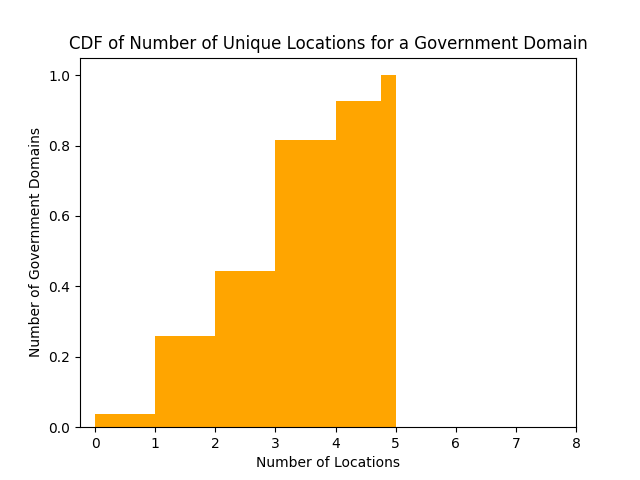
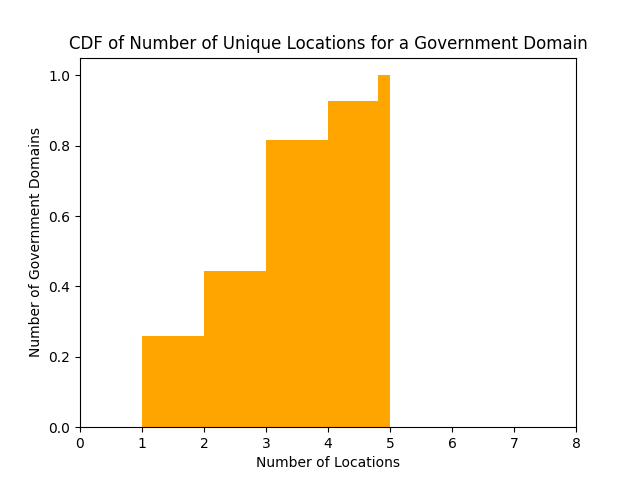
Lots of graphs

diff --git a/scripts/analysis.py b/scripts/analysis.py
@@ -26,6 +26,7 @@ RUN_DOMAIN_TYPES = True
 
 third_party_patterns = [
       re.compile("google", re.IGNORECASE),
+      re.compile("microsoft", re.IGNORECASE),
       re.compile("outlook", re.IGNORECASE),
       re.compile("mimecast", re.IGNORECASE),
       re.compile("barracuda", re.IGNORECASE),
@@ -35,13 +36,28 @@ third_party_patterns = [
       re.compile("zoho", re.IGNORECASE),
       re.compile("spamexperts", re.IGNORECASE),
       re.compile("everycloudtech", re.IGNORECASE),
+      re.compile("everycloudtech", re.IGNORECASE),
+      re.compile("frontbridge", re.IGNORECASE),
       ]
 
-def is_domain_third_party(domain_name):
+government_patterns = [
+      re.compile(r"\.gov\.?$")
+      ]
+
+def classify_third_party(domain_name, geo_host_name):
+    geo_host_name = "" if geo_host_name == None else str(geo_host_name)
+    domain_name = "" if geo_host_name == None else str(domain_name)
     for pattern in third_party_patterns:
         if re.search(pattern, domain_name) != None:
-           return True
-    return False
+            return "Third Party"
+        if re.search(pattern, geo_host_name) != None:
+            return "Third Party"
+    for pattern in government_patterns:
+        if re.search(pattern, geo_host_name) != None:
+            return "First Party"
+        if re.search(pattern, domain_name) != None:
+            return "First Party"
+    return "Unknown"
 
 def run_analysis(gov_df, mx_df, a_df, geo_df, output_dir, force_plot):
     print("Summary Info:") 
@@ -99,13 +115,60 @@ def report_statistics(gov_df, mx_df, a_df, geo_df, output_prefix, output_dir, fo
     # Preference Analysis
     full_df['mx_preference_rank'] = full_df.groupby('gov_domain')['mx_preference'].rank(method='dense', ascending=False)
 
-    # Trying to determine third parties
-    full_df['third party'] = full_df['mx_exchange'].map(is_domain_third_party)
+    # Locations
+    full_df['location'] = full_df.apply(lambda row: str(row['geo_latitude']) + ',' + str(row['geo_longitude']), axis=1)
 
-    third_party_df = full_df.loc[full_df['third party'] == True]
+    # Trying to determine third parties
+    full_df['third party'] = full_df.apply((lambda row: classify_third_party(row['mx_exchange'], row['geo_hostname'])), axis=1)
+
+    third_party_df = full_df.loc[full_df['third party'] == "Third Party"]
     print("\t# Detected Third Party Mail Servers: ", len(third_party_df))
     print("\t% Detected Third Party Mail Servers: ", float(len(third_party_df) / len(full_df)) * 100.0, "%")
+    first_party_df = full_df.loc[full_df['third party'] == "First Party"]
+    print("\t# Detected First Party Mail Servers: ", len(first_party_df))
+    print("\t% Detected First Party Mail Servers: ", float(len(first_party_df) / len(full_df)) * 100.0, "%")
  
+    fig = plt.figure()
+    gb_third_party = full_df.groupby('third party')
+    gb_third_party['mx_exchange'].count().plot(kind='bar',
+        title="Third Party Detection",
+        xlabel="",
+        ylabel="Number of Mail Exchangers",
+        legend=False, use_index=True)
+    plt.xticks(rotation='horizontal')
+    plt.savefig(output_dir + '/' + output_prefix + ' Third Party Exchanges.png')
+    plt.close(fig)
+ 
+    fig = plt.figure()
+    gb_third_party['mx_exchange'].nunique().plot(kind='bar',
+        title="Unique Third Party Detection",
+        xlabel="",
+        ylabel="Number of Unique Mail Exchangers",
+        legend=False, use_index=True)
+    plt.xticks(rotation='horizontal')
+    plt.savefig(output_dir + '/' + output_prefix + ' Unique Third Party Exchanges.png')
+    plt.close(fig)
+
+    fig = plt.figure()
+    gb_third_party['location'].nunique().plot(kind='bar',
+        title="Unique Third Party Locations",
+        xlabel="",
+        ylabel="Number of Unique Locations",
+        legend=False, use_index=True)
+    plt.xticks(rotation='horizontal')
+    plt.savefig(output_dir + '/' + output_prefix + ' Unique Third Party Locations.png')
+    plt.close(fig)
+
+    fig = plt.figure()
+    gb_country = full_df.groupby('geo_country')
+    gb_country['mx_exchange'].nunique().sort_values(ascending=False).plot(kind='bar',
+        title="Number of Mail Servers Per Country",
+        xlabel="Country",
+        ylabel="Number of Unique Mail Domains",
+        legend=False, color='green', use_index=True, logy=True)
+    plt.savefig(output_dir + '/' + output_prefix + ' Exchanges Per Country Counts.png')
+    plt.close(fig)
+
     fig = plt.figure()
     gb_domain = full_df.groupby('gov_domain')
     gb_domain['mx_exchange'].nunique().plot(kind='hist',
@@ -118,7 +181,7 @@ def report_statistics(gov_df, mx_df, a_df, geo_df, output_prefix, output_dir, fo
 
     fig = plt.figure()
     gb_domain = full_df.groupby('gov_domain')
-    gb_domain[['geo_latitude','geo_longitude']].nunique().plot(kind='hist',
+    gb_domain['location'].nunique().plot(kind='hist',
         title='CDF of Number of Unique Locations for a Government Domain',
         xlabel='Number of Locations',
         ylabel='Number of Government Domains',
@@ -133,7 +196,7 @@ def report_statistics(gov_df, mx_df, a_df, geo_df, output_prefix, output_dir, fo
         title='CDF of Number of AS serving a Government Domain',
         xlabel='Number of AS',
         ylabel='Number of Government Domains',
-        xticks=range(0,5),
+        xticks=range(0,6),
         cumulative=True, density=True, bins=20, legend=False, color='purple')
     plt.savefig(output_dir + '/' + output_prefix + ' ASN Count CDF.png')
     plt.close(fig)
@@ -146,6 +209,16 @@ def report_statistics(gov_df, mx_df, a_df, geo_df, output_prefix, output_dir, fo
         ylabel="Number of Unique Government Domains",
         legend=False, color='blue', bins=100, range=(0,500))
     plt.savefig(output_dir + '/' + output_prefix + ' Domains Per Exchange Counts.png')
+    plt.close(fig)
+
+    fig = plt.figure()
+    gb_asn = full_df.reset_index().groupby('a_asn')
+    gb_asn['gov_domain'].nunique().plot(kind='hist',
+        title="Number of AS Serving N Unique Government Domains",
+        xlabel="Number of AS",
+        ylabel="Number of Unique Government Domains",
+        legend=False, color='darkblue', bins=100, range=(0,500))
+    plt.savefig(output_dir + '/' + output_prefix + ' Domains Per ASN Counts.png')
     plt.close(fig)
 
     # Don't Count anycast IP's in this graph
@@ -168,14 +241,15 @@ def geoplot(df, output_prefix, output_dir, force):
     markersize = 80
 
     globe_file = output_dir + "/" + output_prefix + " Globe.png"
+    globe_party_file = output_dir + "/" + output_prefix + " Globe Third Party.png"
     globe_preference_file = output_dir + "/" + output_prefix + " Globe Preference.png"
     us_file = output_dir + "/" + output_prefix + " US.png"
     us_preference_file = output_dir + "/" + output_prefix + " US Preference.png"
     ca_file = output_dir + "/" + output_prefix + " California.png"
     globe_heat_file = output_dir + "/" + output_prefix + " Heat Globe.png"
 
-    s_loc_count = df.value_counts(subset=['geo_latitude','geo_longitude'], normalize=True).rename("loc_count")
-    df = df.set_index(['geo_latitude','geo_longitude']).merge(s_loc_count, left_index=True, right_index=True).reset_index()
+    s_loc_count = df.value_counts(subset='location', normalize=True).rename("loc_count")
+    df = df.set_index('location').merge(s_loc_count, left_index=True, right_index=True).reset_index()
 
     geometry = [Point(xy) for xy in zip(df['geo_longitude'], df['geo_latitude'])]
     gdf = GeoDataFrame(df, geometry=geometry)   
@@ -192,6 +266,11 @@ def geoplot(df, output_prefix, output_dir, force):
         ax = WORLD_MAP.plot(figsize=figsize,edgecolor='k',alpha=0.4) 
         gdf.plot(column='gov_Domain type', ax=ax, marker='o', markersize=markersize, cmap='RdYlGn', legend=True); 
         plt.savefig(globe_file)
+
+    if force or not os.path.isfile(globe_party_file):
+        ax = WORLD_MAP.plot(figsize=figsize,edgecolor='k',alpha=0.4) 
+        gdf.plot(column='third party', ax=ax, marker='o', markersize=markersize, legend=True); 
+        plt.savefig(globe_party_file)
 
     if force or not os.path.isfile(globe_preference_file):
         ax = WORLD_MAP.plot(figsize=figsize,edgecolor='k',alpha=0.4) 
